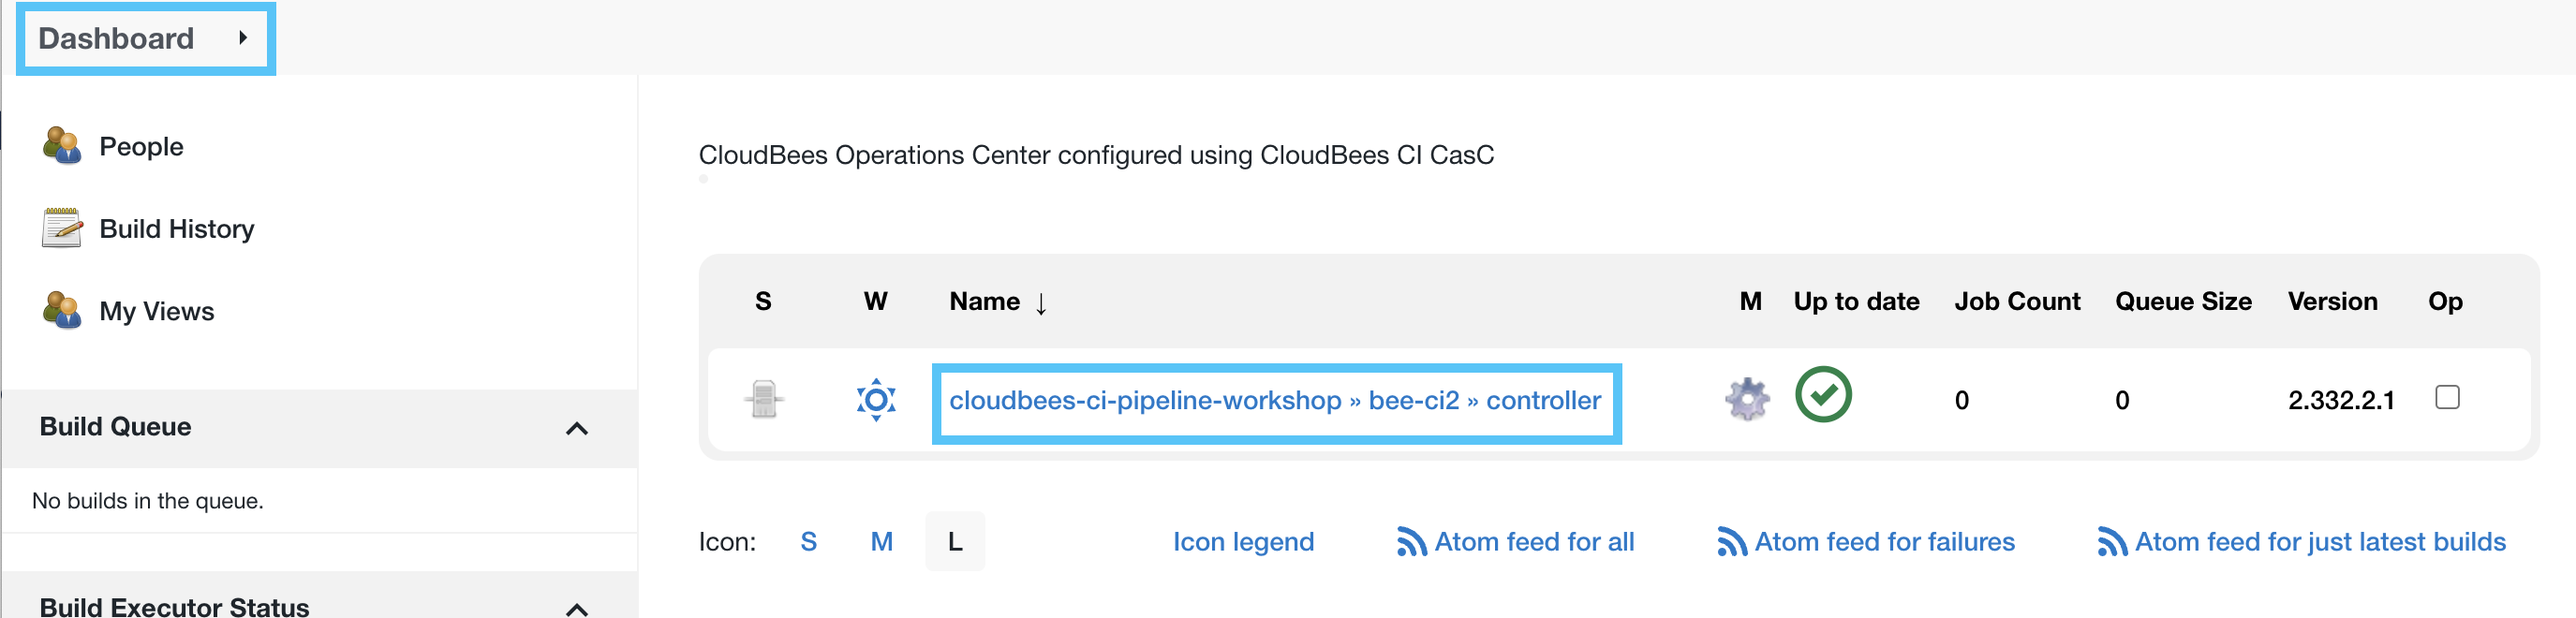
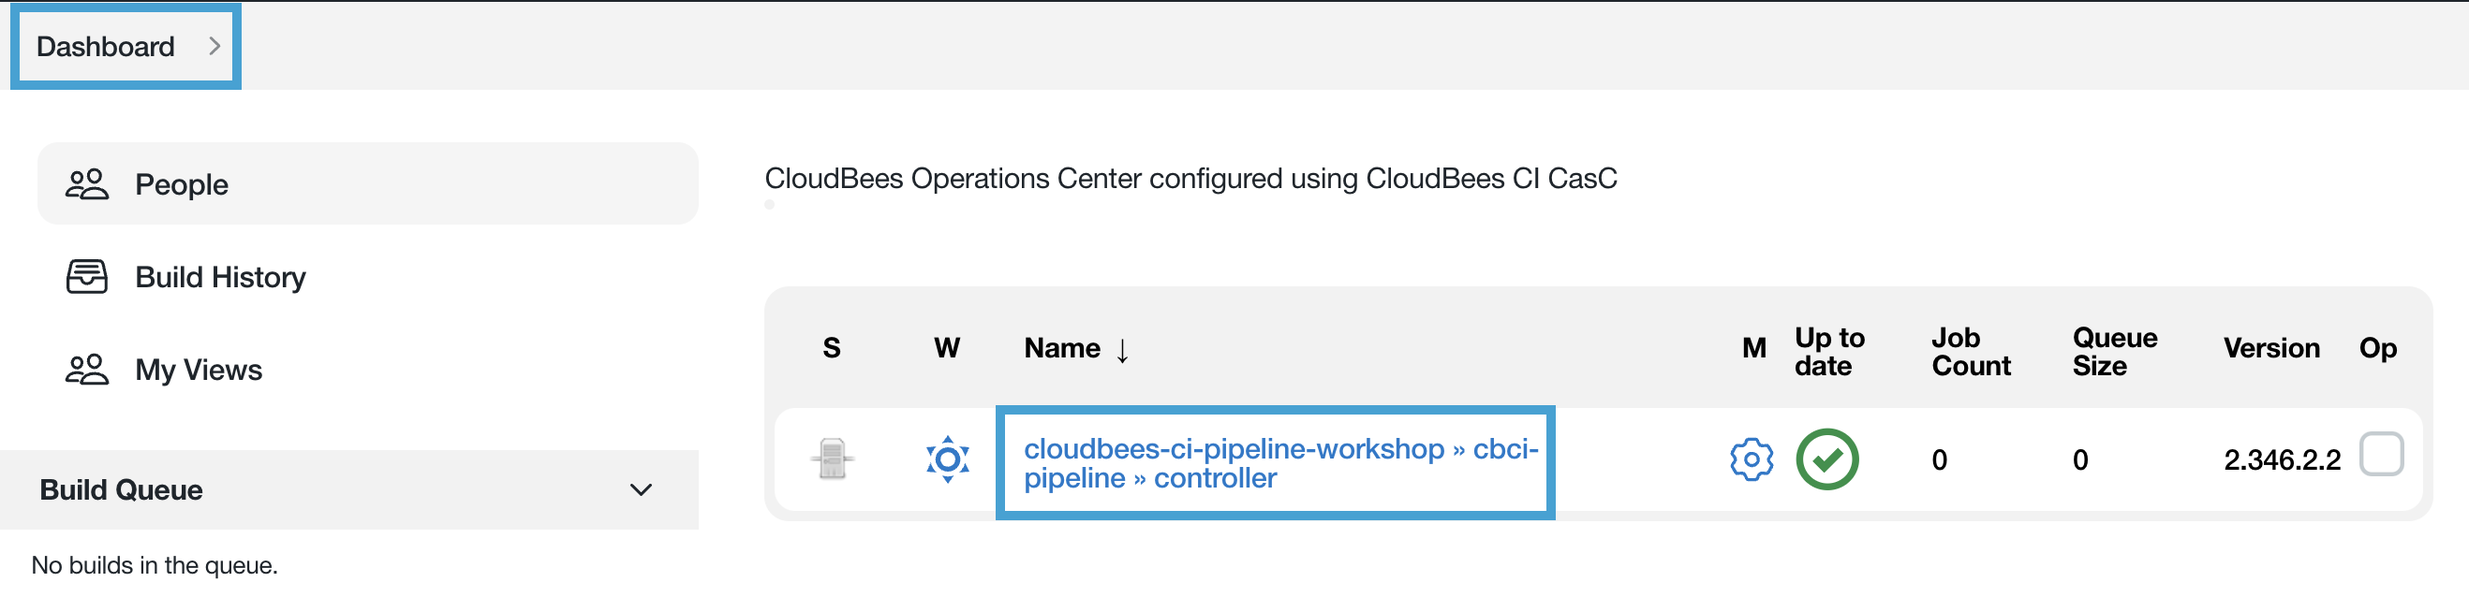
updating screenshots for new release

diff --git a/labs/cloudbees-ci-pipeline/content/labs/declarative-basics.md b/labs/cloudbees-ci-pipeline/content/labs/declarative-basics.md
@@ -31,7 +31,7 @@ In this exercise we are going to create a special type of Jenkins Pipeline proje
 2. At the top-level of your CloudBees CI managed controller click into the **pipelines** folder and then click on **New Item** in the left menu. Make sure you are in the **pipelines** folder. ![New Item](new-item.png?width=50pc) 
 
 {{% notice note %}}
-It is considered a best practice to create and manage all of your CloudBees CI jobs in folders.  
+It is considered a best practice to create and manage all of your CloudBees CI jobs in folders. Furthermore, we are leveraging the CloudBees Folders Plus plugin to limit the types of jobs that may be created in the folder to just three job types to include a Pipeline Catalog template based job that we will explore later in this workshop.
 {{% /notice %}}
 
 3. Enter ***insurance-frontend*** as the **Item Name** and select **Multibranch Pipeline** as the item type and click the **OK** button - again, make sure you are in your **pipelines** folder. ![New GitHub Multibranch Pipeline](github-multibranch-item.png?width=50pc) 
@@ -39,7 +39,7 @@ It is considered a best practice to create and manage all of your CloudBees CI j
 5. Next, select the **CloudBees CI Pipeline Workshop GitHub App** credential from the **Credentials** drop down and enter the URL for your workshop copy of the **insurance-frontend** GitHub repository as the value for the **Repository HTTPS URL** - ***https:\//github.com/{YOUR_GITHUB_ORGANIZATION}/insurance-frontend.git***.
 6. The rest of the default values are sufficient so click the **Validate** button and then click the **Save** button. ![Configure and Save Multibranch Pipeline](configure-save-multibranch-item.png?width=50pc) 
 7. After the repository scan completes, click on the bread-crumb link to go back to your **Multibranch Pipeline** folder that is synced with your workshop copy of the **insurance-frontend** repository. When the scan is complete your **Multibranch Pipeline** project should be **empty**! ![Empty GitHub Organization Folder](empty-multibranch-project.png?width=50pc) 
-9. The reason why the scan did not find any repositories is because there were no branches in the **insurance-frontend** repository with a `Jenkinsfile` in it, so let's fix that. Navigate to your copy of the **insurance-frontend** repository in your workshop GitHub Organization and click on the **Add file** button towards the top right of the screen and then select **Create new file**. Make sure that you don't commit the file to the `main` branch. ![Create Jenkinsfile](create-jenkinsfile.png?width=50pc) 
+9. The reason why the scan did not find any repositories is because there were no branches in your copy of the **insurance-frontend** repository with a `Jenkinsfile` in it, so let's fix that. Navigate to your copy of the **insurance-frontend** repository in your workshop GitHub Organization and click on the **Add file** button towards the top right of the screen and then select **Create new file**. Make sure that you don't commit the file to the `main` branch. ![Create Jenkinsfile](create-jenkinsfile.png?width=50pc) 
 10. Name the file `Jenkinsfile` and add the following content:
 ```
 pipeline {
